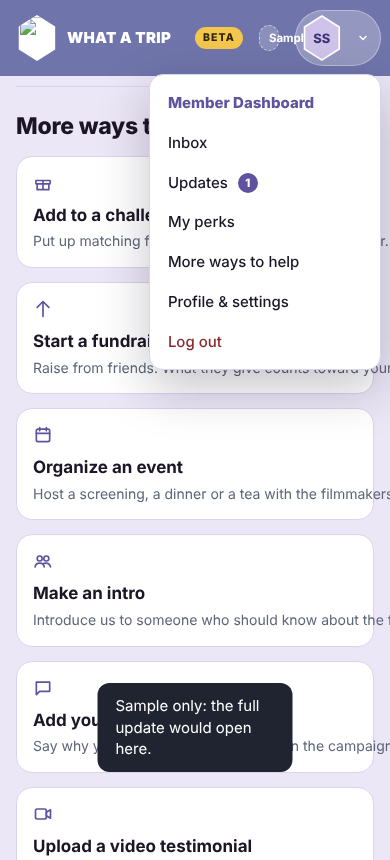
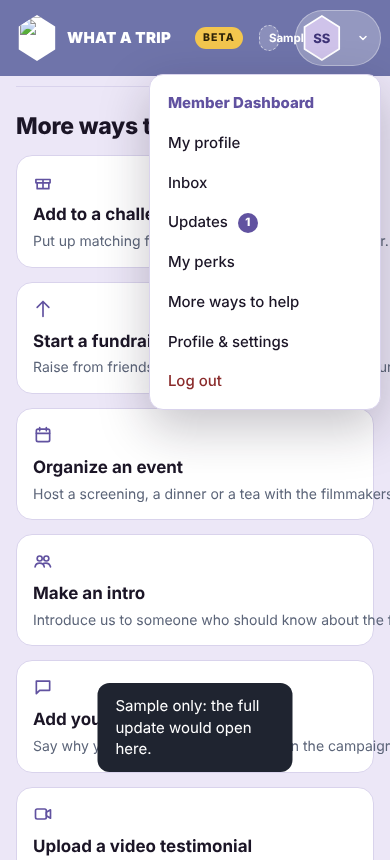
Dashboard menu: My profile under Dashboard; More info (Our budget, Forum soon); Settings and More info collapsed by default
Claude-Session: https://claude.ai/code/session_01B4g6Jr5SafogaXZoJmXf7b

diff --git a/home-page/home-block.html b/home-page/home-block.html
@@ -3062,7 +3062,7 @@ function memChip(){try{navUpd()}catch(x){}var on=memIn(),p=MEM.me.photo;R.classL
 function closeAcct(){var m=T.querySelector('.acm');if(m)m.parentNode.removeChild(m)}
 function openAcct(a){if(T.querySelector('.acm')){closeAcct();return}var r=a.getBoundingClientRect(),t=memTotal(),lv=memLv(t),m=document.createElement('div');m.className='acm';m.setAttribute('role','menu');
   m.style.top=Math.round(r.bottom+8)+'px';m.style.right=Math.max(10,Math.round(window.innerWidth-r.right))+'px';
-  m.innerHTML='<div class="acmh">'+memAv()+'<div><b>'+esc(MEM.me.wall)+'</b><span>'+esc(lv.n)+' · '+money(t)+' given</span></div></div>'+[['home','Member Dashboard'],['inbox','Inbox'],['updates','Updates'],['perks','My perks'],['help','More ways to help'],['profile','Profile & settings']].map(function(x){return '<button role="menuitem" data-acct="'+x[0]+'">'+x[1]+(x[0]==='updates'?memBdg():x[0]==='inbox'?inBdg():'')+'</button>'}).join('')+(MEM.role==='admin'?'<button role="menuitem" data-acct="admin" class="adm">Site Management</button>':'')+'<button role="menuitem" data-acct="out" class="out">Log out</button>'+(LIVE?'':'<span class="acms">Sample account: preview only</span>');
+  m.innerHTML='<div class="acmh">'+memAv()+'<div><b>'+esc(MEM.me.wall)+'</b><span>'+esc(lv.n)+' · '+money(t)+' given</span></div></div>'+[['home','Member Dashboard'],['myprof','My profile'],['inbox','Inbox'],['updates','Updates'],['perks','My perks'],['help','More ways to help'],['profile','Edit profile & settings']].map(function(x){return '<button role="menuitem" data-acct="'+x[0]+'">'+x[1]+(x[0]==='updates'?memBdg():x[0]==='inbox'?inBdg():'')+'</button>'}).join('')+(MEM.role==='admin'?'<button role="menuitem" data-acct="admin" class="adm">Site Management</button>':'')+'<button role="menuitem" data-acct="out" class="out">Log out</button>'+(LIVE?'':'<span class="acms">Sample account: preview only</span>');
   m.addEventListener('click',function(e){var b=e.target.closest&&e.target.closest('[data-acct]');if(!b)return;var v=b.getAttribute('data-acct');closeAcct();if(v==='out'){if(LIVE){liveOut();return}memSetIn(false);toast('You are logged out.');return}ADM.on=v==='admin';if(v!=='admin')MEM.tab=v;openMember(true);memSecGo()});T.appendChild(m)}
 document.addEventListener('click',function(e){if(T.querySelector('.acm')&&!(e.target.closest&&(e.target.closest('.acm')||e.target.closest('[data-wath-login]'))))closeAcct()});
 /* With a mouse, hovering the profile name opens its menu (no click needed); clicking the name still goes to the dashboard.
@@ -3158,14 +3158,15 @@ function blastTab(){if(LIVE&&!LV.rows&&!LV.rowsBusy)liveAdmLoad();var k=BL.kind,
    +'<div class="mcard"><span class="mtag">3. THE MESSAGE</span><div class="blg"><div>'+(k==='email'?'<label class="mf"><span>Subject</span><input data-bl="subj" maxlength="120" value="'+esc(BL.subj||'')+'" placeholder="For example: The rough cut is funded" autocomplete="off"></label><label class="mf"><span>Message</span><textarea data-bl="msg" rows="9" placeholder="Write your email here. Leave a blank line between paragraphs. **Bold** and [links](https://…) work.">'+esc(BL.msg||'')+'</textarea><em>Goes out from WHAT A TRIP: The Rick Doblin Story (members@whatatrip.com). Replies go to info@whatatrip.com.</em></label>':'<label class="mf"><span>Text message</span><textarea data-bl="sms" rows="5" maxlength="320" placeholder="Keep it short.">'+esc(BL.sms||'')+'</textarea><em><span data-blcnt>'+blSms().length+'</span> of 320 characters, including the opt-out line. Texting also needs a texting service and carrier registration, which takes a few weeks to set up.</em></label>')
      +'<div class="amb" style="margin-top:14px">'+(k==='email'?'<button class="btn pri" data-a="bltest"'+(BL.busy?' disabled':'')+'>'+(BL.busy?'Sending…':'Send a test to me')+'</button>':'<button class="btn" disabled title="Needs a texting service">Send a test text (not set up yet)</button>')+'<button class="btn" data-a="toast" data-t="Drafts are kept on this screen until you leave it. Saving drafts comes with real sending.">Save draft</button></div>'+(k==='email'?'<p class="msub">The test goes only to you, at '+esc(LIVE?((LV.sess&&LV.sess.user&&LV.sess.user.email)||'your login email'):'your login email')+', with [Test] in the subject, so you can see exactly how it arrives.</p>':'')+'</div><div class="blpv"><span class="mtag">PREVIEW</span><div data-blpv>'+blPreview()+'</div></div></div></div>'
    +'<div class="mcard"><span class="mtag">HOW THIS WOULD CONNECT</span><p class="msub" style="margin:0">Email could go out through Resend (already used for log-in and invitation emails) or the group could be handed to a list tool. A record of each blast, with who received it, could be copied one way into the Nirvana CRM. Nothing from Nirvana would come back into this site.</p></div>'}
-function memSide(){var k=MEM.tab,pg=memPage(k),adm=ADM.on,tl=staffTools(),it=[['home','Dashboard'],['inbox','Inbox'],['updates','Updates'],['budget','Film budget'],['help','More ways to help']],st=[['myprof','View profile'],['profile','Edit profile'],['settings','Notifications &amp; privacy'],['perks','My perks'],['password','Password']];
+function memSide(){var k=MEM.tab,pg=memPage(k),adm=ADM.on,tl=staffTools(),it=[['home','Dashboard'],['myprof','My profile'],['inbox','Inbox'],['updates','Updates'],['help','More ways to help']],st=[['profile','Edit profile'],['settings','Notifications &amp; privacy'],['perks','My perks'],['password','Password']];
   var btn=function(x){var on=!adm&&(x[0]==='help'?k==='help':x[0]==='home'?(pg==='home'&&k!=='help'):/^(myprof|profile|settings|password)$/.test(x[0])?k===x[0]:pg===x[0]);return '<button class="msn g-me'+(on?' on':'')+'" data-m="tab" data-t="'+x[0]+'">'+(x[0]==='report'?BUG_ICO:'')+x[1]+(x[0]==='updates'?memBdg():x[0]==='inbox'?inBdg():'')+'</button>'};
   /* Nov 17 4:15pm (Nirvan): Site Management first for staff; each group collapses with a chevron (remembered in this browser) */
-  var CL=MSCL(),hd=function(id,lab,cls){return '<button class="mslab mshd '+cls+'" data-mscl="'+id+'" aria-expanded="'+!CL[id]+'">'+lab+'<svg class="chev" aria-hidden="true" width="14" height="14" viewBox="0 0 16 16" fill="none" stroke="currentColor" stroke-width="2.2" stroke-linecap="round" stroke-linejoin="round"><path d="M4 6l4 4 4-4"/></svg></button>'},grp=function(id,body){return '<div class="msgb'+(CL[id]?' cl':'')+'" data-g="'+id+'">'+body+'</div>'};
-  var me=hd('acct','My account <span class="mbeta">Beta</span>','g-me')+grp('acct',it.map(btn).join(''))+hd('set','Settings','ms2 g-me')+grp('set',st.map(btn).join(''))+'<span class="mslab ms2 g-me"></span>'+btn(['report','Report a bug or idea']);
+  /* Nov 18 8:33am (Nirvan): My profile sits under Dashboard; the budget moves to a "More info" group with the forum (coming soon); Settings and More info start collapsed, and open when you are on one of their pages */
+  var CL=MSCL(),inG={set:/^(profile|settings|perks|password)$/.test(k),info:pg==='budget'},shut=function(id){return CL[id]&&!(!adm&&inG[id])},hd=function(id,lab,cls){return '<button class="mslab mshd '+cls+'" data-mscl="'+id+'" aria-expanded="'+!shut(id)+'">'+lab+'<svg class="chev" aria-hidden="true" width="14" height="14" viewBox="0 0 16 16" fill="none" stroke="currentColor" stroke-width="2.2" stroke-linecap="round" stroke-linejoin="round"><path d="M4 6l4 4 4-4"/></svg></button>'},grp=function(id,body){return '<div class="msgb'+(shut(id)?' cl':'')+'" data-g="'+id+'">'+body+'</div>'};
+  var me=hd('acct','My account <span class="mbeta">Beta</span>','g-me')+grp('acct',it.map(btn).join(''))+hd('set','Settings','ms2 g-me')+grp('set',st.map(btn).join(''))+hd('info','More info','ms2 g-me')+grp('info',btn(['budget','Our budget'])+'<button class="msn g-me msoon" data-m="toast" data-t="The forum is coming soon.">Forum <span class="mbeta">Soon</span></button>')+'<span class="mslab ms2 g-me"></span>'+btn(['report','Report a bug or idea']);
   var tm=tl.map(function(t){return '<button class="msn g-team'+(adm&&ADM.tab===t[0]?' on':'')+'" data-a="tab" data-t="'+t[0]+'">'+t[1]+(t[0]==='pchg'?pchgBdg():'')+'</button>'}).join('');
   return '<nav class="msnav" data-grp="'+(adm?'team':'me')+'" aria-label="Dashboard menu">'+(tl.length?'<button class="msn msw g-team" data-a="member">‹ My account</button><button class="msn msw g-me" data-a="admin">Site Management ›</button>':'')+(tl.length?hd('team','Site Management','tm tmtop')+grp('team',tm):'')+me+'<button class="msn out" data-m="logout">Log out</button></nav>'}
-function MSCL(){if(!MEM.cl){try{MEM.cl=JSON.parse(localStorage.getItem('wath:mscl')||'{}')||{}}catch(e){MEM.cl={}}}return MEM.cl}
+function MSCL(){if(!MEM.cl){try{MEM.cl=JSON.parse(localStorage.getItem('wath:mscl')||'{}')||{}}catch(e){MEM.cl={}}}if(!('set' in MEM.cl))MEM.cl.set=true;if(!('info' in MEM.cl))MEM.cl.info=true;return MEM.cl}
 function memTab(){var keep=MEM.tab,pg=memPage(keep),h;if(pg==='profile')h='<h2>Profile &amp; settings</h2><section class="msec" data-sec="'+keep+'">'+memTabOne()+'</section>';else{h=MPAGES[pg].map(function(k){MEM.tab=k;return '<section class="msec" data-sec="'+k+'">'+memTabOne()+'</section>'}).join('');MEM.tab=keep}return '<div class="mside">'+memSide()+'<div class="'+(pg==='profile'?'msmain':'msmain2')+'">'+h+'</div></div>'}
 function memGoal(tag,title,cur,goal,fmt,sub,btn,smp){var p=Math.max(0,Math.min(100,Math.round(cur/goal*100)));return '<div class="mcard mgoal"><span class="mtag">'+tag+(smp?' <span class="asmp">Sample numbers</span>':'')+'</span><b class="mgt">'+title+'</b><div class="bar" style="margin:10px 0 8px"><i style="width:'+p+'%"></i></div><span class="msub"><b style="color:#1b1526">'+fmt(cur)+'</b> of '+fmt(goal)+' · '+p+'%</span><span class="msub">'+sub+'</span>'+btn+'</div>'}
 function memGoals(){var r=rough(),m=matched(),pl=pool(),ig='';try{var a=document.querySelector('#header a[href*="instagram.com"]');if(a)ig=a.href}catch(e){}var num=function(n){return Math.round(n).toLocaleString('en-US')};
@@ -3248,7 +3249,7 @@ if(a==='gnew'){var gv=function(k){var e=T.querySelector('.mov [data-gn='+k+']');
 if(a==='gsave'){var rw=T.querySelector('.mov .gedr'),fv=function(k){var e=rw&&rw.querySelector('[data-gf='+k+']');return e?e.value:''};memGiftRpc(['staff_save_gift',{p_id:v,p_member:ADM.sel,p_amount:+String(fv('amount')).replace(/[^0-9.]/g,'')||0,p_date:fv('date'),p_note:fv('note'),p_anon:null}],'Gift updated. The change is recorded.');return}
 if(a==='gdel'){if(!t.getAttribute('data-sure')){t.setAttribute('data-sure','1');t.textContent='Click again to remove';return}memGiftRpc(['staff_delete_gift',{p_id:v}],'Gift removed. The change is recorded.');return}if(a==='tmopen'){ADM.on=true;ADM.tab='sup';ADM.q='';ADM.sel=v||'';ADM.del='';ADM.edit='';ADM.flag='';ADM.dots='';ADM.add=false;LV.det=null;renderMember();var tmb=T.querySelector('.mov .mbody');if(tmb)tmb.scrollTop=0;return}if(LIVE&&a==='uninvite'){liveUninvite(v);return}if(a==='tab'){var was=ADM.on&&ADM.tab===v;ADM.on=true;ADM.tab=v;renderMember();var tb=T.querySelector('.mov .mbody');if(tb&&!was)tb.scrollTop=0}else if(a==='toast')toast(v);else if(a==='aud'){ADM.aud=v;ADM.ddOpen=v==='pick'&&!(udLoad().levels||[]).length;udSave();renderMember()}else if(a==='udsave'){udSave(1);renderMember();toast('Draft saved on this computer.')}else if(a==='udedit2'){editUpdate(v)}else if(a==='udpub'){udPost()}else if(a==='uddraft'){udPost('draft')}else if(a==='uddel'){if(!t.getAttribute('data-sure')){t.setAttribute('data-sure','1');t.textContent='Click again to confirm';return}udRemove()}else if(a==='udedit'){var up=allUpdates().sort(function(x,y){return (y.pinned?1:0)-(x.pinned?1:0)||(y.publishOn||0)-(x.publishOn||0)})[+v];if(up){var bt=(up.paras||[]).map(function(x){return String(typeof x==='string'?x:(x.t||x.html||x.text||'')).replace(/<[^>]+>/g,'')}).filter(Boolean).join('\n\n')||String(up.body||up.excerpt||'').replace(/<[^>]+>/g,'');var tx=document.createElement('textarea');tx.innerHTML=bt;bt=tx.value;ADM.ud={editing:updKeyOf(up),title:up.title||'',body:bt,date:dtLocal(up.publishOn),mail:false,pin:!!up.pinned,aud:up.gate?'5':'0',levels:[]};ADM.aud=ADM.ud.aud;udSave();renderMember();var mb=T.querySelector('.mov .mbody');if(mb)mb.scrollTop=0}}else if(a==='udedsave'){var dd=udLoad(),ts=new Date(dd.date).getTime();if(dd.editing&&!isNaN(ts)){UPDDT[dd.editing]=ts;try{localStorage.setItem('wath:upd-dates',JSON.stringify(UPDDT))}catch(e){}}ADM.ud={title:'',body:'',mail:true,aud:'0',levels:[]};ADM.aud='0';udSave();renderMember();try{renderUpdates()}catch(e){}toast('Saved. The new date shows in this browser (sample until real posting is built).')}else if(a==='udclear'){ADM.ud={title:'',body:'',mail:true,aud:'0',levels:[]};ADM.aud='0';udSave();renderMember()}else if(a==='sgadd'){STRETCH.push({t:'New stretch goal',a:0,on:1});renderMember()}else if(a==='sgdel'){STRETCH.splice(+v,1);renderMember()}else if(a==='sgon'){var sg=STRETCH[+v];if(sg){sg.on=sg.on?0:1;renderMember()}}else if(a==='inv'){var iv=INV[t.getAttribute('data-k')];if(iv){if(v==='on')iv.on=iv.on?0:1;else if(v==='lim'){iv.lim=iv.lim?0:1;if(iv.lim&&!iv.total)iv.total=10}else if(v==='cp')iv.claimed=Math.min(iv.total,iv.claimed+1);else if(v==='cm')iv.claimed=Math.max(0,iv.claimed-1);renderFeat();renderLevels();renderMember()}}else if(a==='msel'){ADM.gfirst=0;ADM.gadd=false;ADM.gedit='';ADM.hopen=false;ADM.sel=v||'';ADM.del='';ADM.edit='';ADM.flag='';ADM.dots='';if(v)ADM.add=false;LV.det=null;renderMember();var mb=T.querySelector('.mov .mbody');if(mb&&v)mb.scrollTop=0}else if(a==='member'){ADM.on=false;renderMember()}else if(a==='admin'){ADM.on=true;renderMember()}}
 function memNav(){var L=[['About','/about'],['Donor Wall','/donors'],['Impact','/impact'],['Donate','/donate']];return '<nav class="mnav" aria-label="Site menu">'+L.map(function(x){return '<a href="'+x[1]+'">'+x[0]+'</a>'}).join('')+'</nav>'}
-function memHead(adm){var me='<span class="wath-chip-av"><span class="wath-chip-in">'+(MEM.me.photo?'<img alt="" src="'+MEM.me.photo+'">':memIni())+'</span></span><span>'+esc(MEM.me.wall)+'</span>';return '<div class="minner"><button class="mlogo" data-m="close" title="Back to the campaign page"><img alt="" src="'+RICK_AV+'">WHAT A TRIP</button><span class="mbeta" title="Member accounts are in beta testing">Beta</span>'+memNav()+(LIVE?'':'<button class="msamp" data-m="role" title="Sample only: switch between previewing as a member and as an admin">Sample: '+(MEM.role==='admin'?'admin':'member')+'</button>')+(adm?'<button class="mswap" data-a="member">Member view</button><span class="mme">'+me+'</span>':'<span class="mmw"><button class="mme" data-m="menu" aria-haspopup="menu" aria-expanded="false">'+me+'<span class="marr" title="Menu"><svg aria-hidden="true" width="12" height="12" viewBox="0 0 24 24" fill="none" stroke="currentColor" stroke-width="3" stroke-linecap="round" stroke-linejoin="round"><path d="M6 9l6 6 6-6"/></svg></span></button><span class="mmenu" role="menu">'+[['home','Member Dashboard'],['inbox','Inbox'],['updates','Updates'],['perks','My perks'],['help','More ways to help'],['profile','Profile & settings']].map(function(x){return '<button role="menuitem" class="mt'+(memPage(MEM.tab)===x[0]?' on':'')+'" data-m="tab" data-t="'+x[0]+'">'+x[1]+(x[0]==='updates'?memBdg():x[0]==='inbox'?inBdg():'')+'</button>'}).join('')+(MEM.role==='admin'?'<button role="menuitem" class="adm" data-a="admin">Site Management</button>':'')+'<button role="menuitem" class="out" data-m="logout">Log out</button></span></span>')+'</div>'}
+function memHead(adm){var me='<span class="wath-chip-av"><span class="wath-chip-in">'+(MEM.me.photo?'<img alt="" src="'+MEM.me.photo+'">':memIni())+'</span></span><span>'+esc(MEM.me.wall)+'</span>';return '<div class="minner"><button class="mlogo" data-m="close" title="Back to the campaign page"><img alt="" src="'+RICK_AV+'">WHAT A TRIP</button><span class="mbeta" title="Member accounts are in beta testing">Beta</span>'+memNav()+(LIVE?'':'<button class="msamp" data-m="role" title="Sample only: switch between previewing as a member and as an admin">Sample: '+(MEM.role==='admin'?'admin':'member')+'</button>')+(adm?'<button class="mswap" data-a="member">Member view</button><span class="mme">'+me+'</span>':'<span class="mmw"><button class="mme" data-m="menu" aria-haspopup="menu" aria-expanded="false">'+me+'<span class="marr" title="Menu"><svg aria-hidden="true" width="12" height="12" viewBox="0 0 24 24" fill="none" stroke="currentColor" stroke-width="3" stroke-linecap="round" stroke-linejoin="round"><path d="M6 9l6 6 6-6"/></svg></span></button><span class="mmenu" role="menu">'+[['home','Member Dashboard'],['myprof','My profile'],['inbox','Inbox'],['updates','Updates'],['perks','My perks'],['help','More ways to help'],['profile','Profile & settings']].map(function(x){return '<button role="menuitem" class="mt'+(memPage(MEM.tab)===x[0]?' on':'')+'" data-m="tab" data-t="'+x[0]+'">'+x[1]+(x[0]==='updates'?memBdg():x[0]==='inbox'?inBdg():'')+'</button>'}).join('')+(MEM.role==='admin'?'<button role="menuitem" class="adm" data-a="admin">Site Management</button>':'')+'<button role="menuitem" class="out" data-m="logout">Log out</button></span></span>')+'</div>'}
 /* Nov 17 4:32pm (Nirvan): on a computer the dashboard's top bar puts Rick's hexagon and WHAT A TRIP exactly where the site header has them */
 function mtopAlign(){try{var mi=T.querySelector('.mov .mtop .minner'),hl=document.querySelector('#header .wath-hlw'),hd=document.querySelector('#header'),ta=document.querySelector('#header .header-title-text a'),ml=T.querySelector('.mov .mlogo');if(!mi||!ml)return;
   if(!hl||!hd||window.innerWidth<768){mi.style.cssText='';ml.style.cssText='';return}var hr=hd.getBoundingClientRect(),lr=hl.getBoundingClientRect();if(!lr.width)return;
@@ -3261,7 +3262,7 @@ function renderMember(){setTimeout(mtopAlign,0);var o=T.querySelector('.mov');if
   var nv=o.querySelector('.msnav'),non=nv&&nv.querySelector('.msn.on');if(non&&nv.scrollWidth>nv.clientWidth+2)nv.scrollLeft=Math.max(0,non.offsetLeft-nv.offsetLeft-14);
   if(keep){var s2=o.querySelector('.mbody');if(s2)s2.scrollTop=y;if(vals)[].forEach.call(o.querySelectorAll(sel),function(i,n){if(n<vals.length&&!i.disabled)i.value=vals[n]})}}
 function memSecGo(){var o=T.querySelector('.mov');if(!o)return;var sc=o.querySelector('.mbody'),el=o.querySelector('.msec[data-sec="'+MEM.tab+'"]');if(!sc)return;sc.scrollTop=(el&&el.previousElementSibling)?Math.max(0,el.offsetTop-sc.offsetTop-10):0}
-function memClick(e){if(mpClick(e))return;var mc=e.target.closest&&e.target.closest('[data-mscl]');if(mc){var id=mc.getAttribute('data-mscl'),CL=MSCL();CL[id]=!CL[id];try{localStorage.setItem('wath:mscl',JSON.stringify(CL))}catch(x){}mc.setAttribute('aria-expanded',!CL[id]);var gb=mc.parentNode.querySelector('.msgb[data-g="'+id+'"]');if(gb)gb.classList.toggle('cl',!!CL[id]);return}var mw=T.querySelector('.mov .mmw');if(mw&&!(e.target.closest&&e.target.closest('[data-m=menu]'))){mw.classList.remove('open')}var ta=e.target.closest&&e.target.closest('[data-a]');if(ta){admClick(ta);return}var t=e.target.closest&&e.target.closest('[data-m]');if(!t)return;var a=t.getAttribute('data-m'),v=t.getAttribute('data-t');if(accClick(a,t))return;if(a==='inbf'){MEM.inbF=v;MEM.inbOpen='';renderMember();return}if(a==='monthgo'){giveMonthly(+v||MEM.monthly||25);return}
+function memClick(e){if(mpClick(e))return;var mc=e.target.closest&&e.target.closest('[data-mscl]');if(mc){var id=mc.getAttribute('data-mscl'),CL=MSCL(),gb0=mc.parentNode.querySelector('.msgb[data-g="'+id+'"]');CL[id]=gb0?!gb0.classList.contains('cl'):!CL[id];try{localStorage.setItem('wath:mscl',JSON.stringify(CL))}catch(x){}mc.setAttribute('aria-expanded',!CL[id]);var gb=mc.parentNode.querySelector('.msgb[data-g="'+id+'"]');if(gb)gb.classList.toggle('cl',!!CL[id]);return}var mw=T.querySelector('.mov .mmw');if(mw&&!(e.target.closest&&e.target.closest('[data-m=menu]'))){mw.classList.remove('open')}var ta=e.target.closest&&e.target.closest('[data-a]');if(ta){admClick(ta);return}var t=e.target.closest&&e.target.closest('[data-m]');if(!t)return;var a=t.getAttribute('data-m'),v=t.getAttribute('data-t');if(accClick(a,t))return;if(a==='inbf'){MEM.inbF=v;MEM.inbOpen='';renderMember();return}if(a==='monthgo'){giveMonthly(+v||MEM.monthly||25);return}
   if(a==='close')closeMember();else if(a==='role'){MEM.role=MEM.role==='admin'?'member':'admin';if(MEM.role!=='admin')ADM.on=false;renderMember();try{socKeep();renderUpdates();renderLevels()}catch(x){}toast(MEM.role==='admin'?'Sample: now previewing an admin login. Only the team sees Site Management.':'Sample: now previewing a member login. Members never see Site Management.')}else if(a==='login'){memSetIn(true);MEM.ob=memSeen()?-1:0;renderMember()}else if(a==='menu'){if(!(e.target.closest&&e.target.closest('.marr'))){ADM.on=false;MEM.tab='home';renderMember();memSecGo();return}var w=t.parentNode,op=HOVERS?true:!w.classList.contains('open');w.classList.toggle('open',op);t.setAttribute('aria-expanded',op?'true':'false')}else if(a==='tab'){ADM.on=false;MEM.tab=v;renderMember();memSecGo()}else if(a==='toast')toast(v);
   else if(a==='inbopen'){MEM.inbOpen=MEM.inbOpen===v?null:v;INB.forEach(function(m){if(m.id===v)m.r=1});inbSave();renderMember();try{memChip()}catch(x){}}else if(a==='inbnew'){MEM.inbNew=1;renderMember()}else if(a==='inbcancel'){MEM.inbNew=0;renderMember()}else if(a==='inbsend'){var ov=T.querySelector('.mov'),su=(ov.querySelector('[data-inbsub]').value||'').trim(),bo=(ov.querySelector('[data-inbbody]').value||'').trim(),to=ov.querySelector('[data-inbto]').value;if(!bo){toast('Please write a message.');return}INB.unshift({id:'o'+Date.now(),out:1,to:to==='dir'?'Nirvan Mullick, Director':'The What a Trip team',s:su||'(No subject)',b:'<p>'+esc(bo).replace(/\n/g,'<br>')+'</p>',d:inbNow(),r:1});inbSave();MEM.inbNew=0;MEM.inbF='out';renderMember();toast('Sent. We’ll reply here and by email.'+(LIVE?'':' (Sample: saved on this computer only.)'))}
   else if(a==='smsend'){var o2=T.querySelector('.mov'),to2=o2.querySelector('[data-smto]').value,sb=(o2.querySelector('[data-smsub]').value||'').trim(),bd=(o2.querySelector('[data-smbody]').value||'').trim();if(!bd){toast('Please write a message.');return}if(/\(you\)$/.test(to2)){inbAdd(null,sb||'A message from the team','<p>'+esc(bd).replace(/\n/g,'<br>')+'</p>');toast('Sent to your Inbox. (Sample.)')}else toast('Sample only: this would go to '+to2+'’s Inbox and email.');o2.querySelector('[data-smbody]').value='';o2.querySelector('[data-smsub]').value=''}

diff --git a/home-page/src/app.js b/home-page/src/app.js
@@ -1038,7 +1038,7 @@ function memChip(){try{navUpd()}catch(x){}var on=memIn(),p=MEM.me.photo;R.classL
 function closeAcct(){var m=T.querySelector('.acm');if(m)m.parentNode.removeChild(m)}
 function openAcct(a){if(T.querySelector('.acm')){closeAcct();return}var r=a.getBoundingClientRect(),t=memTotal(),lv=memLv(t),m=document.createElement('div');m.className='acm';m.setAttribute('role','menu');
   m.style.top=Math.round(r.bottom+8)+'px';m.style.right=Math.max(10,Math.round(window.innerWidth-r.right))+'px';
-  m.innerHTML='<div class="acmh">'+memAv()+'<div><b>'+esc(MEM.me.wall)+'</b><span>'+esc(lv.n)+' · '+money(t)+' given</span></div></div>'+[['home','Member Dashboard'],['inbox','Inbox'],['updates','Updates'],['perks','My perks'],['help','More ways to help'],['profile','Profile & settings']].map(function(x){return '<button role="menuitem" data-acct="'+x[0]+'">'+x[1]+(x[0]==='updates'?memBdg():x[0]==='inbox'?inBdg():'')+'</button>'}).join('')+(MEM.role==='admin'?'<button role="menuitem" data-acct="admin" class="adm">Site Management</button>':'')+'<button role="menuitem" data-acct="out" class="out">Log out</button>'+(LIVE?'':'<span class="acms">Sample account: preview only</span>');
+  m.innerHTML='<div class="acmh">'+memAv()+'<div><b>'+esc(MEM.me.wall)+'</b><span>'+esc(lv.n)+' · '+money(t)+' given</span></div></div>'+[['home','Member Dashboard'],['myprof','My profile'],['inbox','Inbox'],['updates','Updates'],['perks','My perks'],['help','More ways to help'],['profile','Edit profile & settings']].map(function(x){return '<button role="menuitem" data-acct="'+x[0]+'">'+x[1]+(x[0]==='updates'?memBdg():x[0]==='inbox'?inBdg():'')+'</button>'}).join('')+(MEM.role==='admin'?'<button role="menuitem" data-acct="admin" class="adm">Site Management</button>':'')+'<button role="menuitem" data-acct="out" class="out">Log out</button>'+(LIVE?'':'<span class="acms">Sample account: preview only</span>');
   m.addEventListener('click',function(e){var b=e.target.closest&&e.target.closest('[data-acct]');if(!b)return;var v=b.getAttribute('data-acct');closeAcct();if(v==='out'){if(LIVE){liveOut();return}memSetIn(false);toast('You are logged out.');return}ADM.on=v==='admin';if(v!=='admin')MEM.tab=v;openMember(true);memSecGo()});T.appendChild(m)}
 document.addEventListener('click',function(e){if(T.querySelector('.acm')&&!(e.target.closest&&(e.target.closest('.acm')||e.target.closest('[data-wath-login]'))))closeAcct()});
 /* With a mouse, hovering the profile name opens its menu (no click needed); clicking the name still goes to the dashboard.
@@ -1134,14 +1134,15 @@ function blastTab(){if(LIVE&&!LV.rows&&!LV.rowsBusy)liveAdmLoad();var k=BL.kind,
    +'<div class="mcard"><span class="mtag">3. THE MESSAGE</span><div class="blg"><div>'+(k==='email'?'<label class="mf"><span>Subject</span><input data-bl="subj" maxlength="120" value="'+esc(BL.subj||'')+'" placeholder="For example: The rough cut is funded" autocomplete="off"></label><label class="mf"><span>Message</span><textarea data-bl="msg" rows="9" placeholder="Write your email here. Leave a blank line between paragraphs. **Bold** and [links](https://…) work.">'+esc(BL.msg||'')+'</textarea><em>Goes out from WHAT A TRIP: The Rick Doblin Story (members@whatatrip.com). Replies go to info@whatatrip.com.</em></label>':'<label class="mf"><span>Text message</span><textarea data-bl="sms" rows="5" maxlength="320" placeholder="Keep it short.">'+esc(BL.sms||'')+'</textarea><em><span data-blcnt>'+blSms().length+'</span> of 320 characters, including the opt-out line. Texting also needs a texting service and carrier registration, which takes a few weeks to set up.</em></label>')
      +'<div class="amb" style="margin-top:14px">'+(k==='email'?'<button class="btn pri" data-a="bltest"'+(BL.busy?' disabled':'')+'>'+(BL.busy?'Sending…':'Send a test to me')+'</button>':'<button class="btn" disabled title="Needs a texting service">Send a test text (not set up yet)</button>')+'<button class="btn" data-a="toast" data-t="Drafts are kept on this screen until you leave it. Saving drafts comes with real sending.">Save draft</button></div>'+(k==='email'?'<p class="msub">The test goes only to you, at '+esc(LIVE?((LV.sess&&LV.sess.user&&LV.sess.user.email)||'your login email'):'your login email')+', with [Test] in the subject, so you can see exactly how it arrives.</p>':'')+'</div><div class="blpv"><span class="mtag">PREVIEW</span><div data-blpv>'+blPreview()+'</div></div></div></div>'
    +'<div class="mcard"><span class="mtag">HOW THIS WOULD CONNECT</span><p class="msub" style="margin:0">Email could go out through Resend (already used for log-in and invitation emails) or the group could be handed to a list tool. A record of each blast, with who received it, could be copied one way into the Nirvana CRM. Nothing from Nirvana would come back into this site.</p></div>'}
-function memSide(){var k=MEM.tab,pg=memPage(k),adm=ADM.on,tl=staffTools(),it=[['home','Dashboard'],['inbox','Inbox'],['updates','Updates'],['budget','Film budget'],['help','More ways to help']],st=[['myprof','View profile'],['profile','Edit profile'],['settings','Notifications &amp; privacy'],['perks','My perks'],['password','Password']];
+function memSide(){var k=MEM.tab,pg=memPage(k),adm=ADM.on,tl=staffTools(),it=[['home','Dashboard'],['myprof','My profile'],['inbox','Inbox'],['updates','Updates'],['help','More ways to help']],st=[['profile','Edit profile'],['settings','Notifications &amp; privacy'],['perks','My perks'],['password','Password']];
   var btn=function(x){var on=!adm&&(x[0]==='help'?k==='help':x[0]==='home'?(pg==='home'&&k!=='help'):/^(myprof|profile|settings|password)$/.test(x[0])?k===x[0]:pg===x[0]);return '<button class="msn g-me'+(on?' on':'')+'" data-m="tab" data-t="'+x[0]+'">'+(x[0]==='report'?BUG_ICO:'')+x[1]+(x[0]==='updates'?memBdg():x[0]==='inbox'?inBdg():'')+'</button>'};
   /* Nov 17 4:15pm (Nirvan): Site Management first for staff; each group collapses with a chevron (remembered in this browser) */
-  var CL=MSCL(),hd=function(id,lab,cls){return '<button class="mslab mshd '+cls+'" data-mscl="'+id+'" aria-expanded="'+!CL[id]+'">'+lab+'<svg class="chev" aria-hidden="true" width="14" height="14" viewBox="0 0 16 16" fill="none" stroke="currentColor" stroke-width="2.2" stroke-linecap="round" stroke-linejoin="round"><path d="M4 6l4 4 4-4"/></svg></button>'},grp=function(id,body){return '<div class="msgb'+(CL[id]?' cl':'')+'" data-g="'+id+'">'+body+'</div>'};
-  var me=hd('acct','My account <span class="mbeta">Beta</span>','g-me')+grp('acct',it.map(btn).join(''))+hd('set','Settings','ms2 g-me')+grp('set',st.map(btn).join(''))+'<span class="mslab ms2 g-me"></span>'+btn(['report','Report a bug or idea']);
+  /* Nov 18 8:33am (Nirvan): My profile sits under Dashboard; the budget moves to a "More info" group with the forum (coming soon); Settings and More info start collapsed, and open when you are on one of their pages */
+  var CL=MSCL(),inG={set:/^(profile|settings|perks|password)$/.test(k),info:pg==='budget'},shut=function(id){return CL[id]&&!(!adm&&inG[id])},hd=function(id,lab,cls){return '<button class="mslab mshd '+cls+'" data-mscl="'+id+'" aria-expanded="'+!shut(id)+'">'+lab+'<svg class="chev" aria-hidden="true" width="14" height="14" viewBox="0 0 16 16" fill="none" stroke="currentColor" stroke-width="2.2" stroke-linecap="round" stroke-linejoin="round"><path d="M4 6l4 4 4-4"/></svg></button>'},grp=function(id,body){return '<div class="msgb'+(shut(id)?' cl':'')+'" data-g="'+id+'">'+body+'</div>'};
+  var me=hd('acct','My account <span class="mbeta">Beta</span>','g-me')+grp('acct',it.map(btn).join(''))+hd('set','Settings','ms2 g-me')+grp('set',st.map(btn).join(''))+hd('info','More info','ms2 g-me')+grp('info',btn(['budget','Our budget'])+'<button class="msn g-me msoon" data-m="toast" data-t="The forum is coming soon.">Forum <span class="mbeta">Soon</span></button>')+'<span class="mslab ms2 g-me"></span>'+btn(['report','Report a bug or idea']);
   var tm=tl.map(function(t){return '<button class="msn g-team'+(adm&&ADM.tab===t[0]?' on':'')+'" data-a="tab" data-t="'+t[0]+'">'+t[1]+(t[0]==='pchg'?pchgBdg():'')+'</button>'}).join('');
   return '<nav class="msnav" data-grp="'+(adm?'team':'me')+'" aria-label="Dashboard menu">'+(tl.length?'<button class="msn msw g-team" data-a="member">‹ My account</button><button class="msn msw g-me" data-a="admin">Site Management ›</button>':'')+(tl.length?hd('team','Site Management','tm tmtop')+grp('team',tm):'')+me+'<button class="msn out" data-m="logout">Log out</button></nav>'}
-function MSCL(){if(!MEM.cl){try{MEM.cl=JSON.parse(localStorage.getItem('wath:mscl')||'{}')||{}}catch(e){MEM.cl={}}}return MEM.cl}
+function MSCL(){if(!MEM.cl){try{MEM.cl=JSON.parse(localStorage.getItem('wath:mscl')||'{}')||{}}catch(e){MEM.cl={}}}if(!('set' in MEM.cl))MEM.cl.set=true;if(!('info' in MEM.cl))MEM.cl.info=true;return MEM.cl}
 function memTab(){var keep=MEM.tab,pg=memPage(keep),h;if(pg==='profile')h='<h2>Profile &amp; settings</h2><section class="msec" data-sec="'+keep+'">'+memTabOne()+'</section>';else{h=MPAGES[pg].map(function(k){MEM.tab=k;return '<section class="msec" data-sec="'+k+'">'+memTabOne()+'</section>'}).join('');MEM.tab=keep}return '<div class="mside">'+memSide()+'<div class="'+(pg==='profile'?'msmain':'msmain2')+'">'+h+'</div></div>'}
 function memGoal(tag,title,cur,goal,fmt,sub,btn,smp){var p=Math.max(0,Math.min(100,Math.round(cur/goal*100)));return '<div class="mcard mgoal"><span class="mtag">'+tag+(smp?' <span class="asmp">Sample numbers</span>':'')+'</span><b class="mgt">'+title+'</b><div class="bar" style="margin:10px 0 8px"><i style="width:'+p+'%"></i></div><span class="msub"><b style="color:#1b1526">'+fmt(cur)+'</b> of '+fmt(goal)+' · '+p+'%</span><span class="msub">'+sub+'</span>'+btn+'</div>'}
 function memGoals(){var r=rough(),m=matched(),pl=pool(),ig='';try{var a=document.querySelector('#header a[href*="instagram.com"]');if(a)ig=a.href}catch(e){}var num=function(n){return Math.round(n).toLocaleString('en-US')};
@@ -1224,7 +1225,7 @@ if(a==='gnew'){var gv=function(k){var e=T.querySelector('.mov [data-gn='+k+']');
 if(a==='gsave'){var rw=T.querySelector('.mov .gedr'),fv=function(k){var e=rw&&rw.querySelector('[data-gf='+k+']');return e?e.value:''};memGiftRpc(['staff_save_gift',{p_id:v,p_member:ADM.sel,p_amount:+String(fv('amount')).replace(/[^0-9.]/g,'')||0,p_date:fv('date'),p_note:fv('note'),p_anon:null}],'Gift updated. The change is recorded.');return}
 if(a==='gdel'){if(!t.getAttribute('data-sure')){t.setAttribute('data-sure','1');t.textContent='Click again to remove';return}memGiftRpc(['staff_delete_gift',{p_id:v}],'Gift removed. The change is recorded.');return}if(a==='tmopen'){ADM.on=true;ADM.tab='sup';ADM.q='';ADM.sel=v||'';ADM.del='';ADM.edit='';ADM.flag='';ADM.dots='';ADM.add=false;LV.det=null;renderMember();var tmb=T.querySelector('.mov .mbody');if(tmb)tmb.scrollTop=0;return}if(LIVE&&a==='uninvite'){liveUninvite(v);return}if(a==='tab'){var was=ADM.on&&ADM.tab===v;ADM.on=true;ADM.tab=v;renderMember();var tb=T.querySelector('.mov .mbody');if(tb&&!was)tb.scrollTop=0}else if(a==='toast')toast(v);else if(a==='aud'){ADM.aud=v;ADM.ddOpen=v==='pick'&&!(udLoad().levels||[]).length;udSave();renderMember()}else if(a==='udsave'){udSave(1);renderMember();toast('Draft saved on this computer.')}else if(a==='udedit2'){editUpdate(v)}else if(a==='udpub'){udPost()}else if(a==='uddraft'){udPost('draft')}else if(a==='uddel'){if(!t.getAttribute('data-sure')){t.setAttribute('data-sure','1');t.textContent='Click again to confirm';return}udRemove()}else if(a==='udedit'){var up=allUpdates().sort(function(x,y){return (y.pinned?1:0)-(x.pinned?1:0)||(y.publishOn||0)-(x.publishOn||0)})[+v];if(up){var bt=(up.paras||[]).map(function(x){return String(typeof x==='string'?x:(x.t||x.html||x.text||'')).replace(/<[^>]+>/g,'')}).filter(Boolean).join('\n\n')||String(up.body||up.excerpt||'').replace(/<[^>]+>/g,'');var tx=document.createElement('textarea');tx.innerHTML=bt;bt=tx.value;ADM.ud={editing:updKeyOf(up),title:up.title||'',body:bt,date:dtLocal(up.publishOn),mail:false,pin:!!up.pinned,aud:up.gate?'5':'0',levels:[]};ADM.aud=ADM.ud.aud;udSave();renderMember();var mb=T.querySelector('.mov .mbody');if(mb)mb.scrollTop=0}}else if(a==='udedsave'){var dd=udLoad(),ts=new Date(dd.date).getTime();if(dd.editing&&!isNaN(ts)){UPDDT[dd.editing]=ts;try{localStorage.setItem('wath:upd-dates',JSON.stringify(UPDDT))}catch(e){}}ADM.ud={title:'',body:'',mail:true,aud:'0',levels:[]};ADM.aud='0';udSave();renderMember();try{renderUpdates()}catch(e){}toast('Saved. The new date shows in this browser (sample until real posting is built).')}else if(a==='udclear'){ADM.ud={title:'',body:'',mail:true,aud:'0',levels:[]};ADM.aud='0';udSave();renderMember()}else if(a==='sgadd'){STRETCH.push({t:'New stretch goal',a:0,on:1});renderMember()}else if(a==='sgdel'){STRETCH.splice(+v,1);renderMember()}else if(a==='sgon'){var sg=STRETCH[+v];if(sg){sg.on=sg.on?0:1;renderMember()}}else if(a==='inv'){var iv=INV[t.getAttribute('data-k')];if(iv){if(v==='on')iv.on=iv.on?0:1;else if(v==='lim'){iv.lim=iv.lim?0:1;if(iv.lim&&!iv.total)iv.total=10}else if(v==='cp')iv.claimed=Math.min(iv.total,iv.claimed+1);else if(v==='cm')iv.claimed=Math.max(0,iv.claimed-1);renderFeat();renderLevels();renderMember()}}else if(a==='msel'){ADM.gfirst=0;ADM.gadd=false;ADM.gedit='';ADM.hopen=false;ADM.sel=v||'';ADM.del='';ADM.edit='';ADM.flag='';ADM.dots='';if(v)ADM.add=false;LV.det=null;renderMember();var mb=T.querySelector('.mov .mbody');if(mb&&v)mb.scrollTop=0}else if(a==='member'){ADM.on=false;renderMember()}else if(a==='admin'){ADM.on=true;renderMember()}}
 function memNav(){var L=[['About','/about'],['Donor Wall','/donors'],['Impact','/impact'],['Donate','/donate']];return '<nav class="mnav" aria-label="Site menu">'+L.map(function(x){return '<a href="'+x[1]+'">'+x[0]+'</a>'}).join('')+'</nav>'}
-function memHead(adm){var me='<span class="wath-chip-av"><span class="wath-chip-in">'+(MEM.me.photo?'<img alt="" src="'+MEM.me.photo+'">':memIni())+'</span></span><span>'+esc(MEM.me.wall)+'</span>';return '<div class="minner"><button class="mlogo" data-m="close" title="Back to the campaign page"><img alt="" src="'+RICK_AV+'">WHAT A TRIP</button><span class="mbeta" title="Member accounts are in beta testing">Beta</span>'+memNav()+(LIVE?'':'<button class="msamp" data-m="role" title="Sample only: switch between previewing as a member and as an admin">Sample: '+(MEM.role==='admin'?'admin':'member')+'</button>')+(adm?'<button class="mswap" data-a="member">Member view</button><span class="mme">'+me+'</span>':'<span class="mmw"><button class="mme" data-m="menu" aria-haspopup="menu" aria-expanded="false">'+me+'<span class="marr" title="Menu"><svg aria-hidden="true" width="12" height="12" viewBox="0 0 24 24" fill="none" stroke="currentColor" stroke-width="3" stroke-linecap="round" stroke-linejoin="round"><path d="M6 9l6 6 6-6"/></svg></span></button><span class="mmenu" role="menu">'+[['home','Member Dashboard'],['inbox','Inbox'],['updates','Updates'],['perks','My perks'],['help','More ways to help'],['profile','Profile & settings']].map(function(x){return '<button role="menuitem" class="mt'+(memPage(MEM.tab)===x[0]?' on':'')+'" data-m="tab" data-t="'+x[0]+'">'+x[1]+(x[0]==='updates'?memBdg():x[0]==='inbox'?inBdg():'')+'</button>'}).join('')+(MEM.role==='admin'?'<button role="menuitem" class="adm" data-a="admin">Site Management</button>':'')+'<button role="menuitem" class="out" data-m="logout">Log out</button></span></span>')+'</div>'}
+function memHead(adm){var me='<span class="wath-chip-av"><span class="wath-chip-in">'+(MEM.me.photo?'<img alt="" src="'+MEM.me.photo+'">':memIni())+'</span></span><span>'+esc(MEM.me.wall)+'</span>';return '<div class="minner"><button class="mlogo" data-m="close" title="Back to the campaign page"><img alt="" src="'+RICK_AV+'">WHAT A TRIP</button><span class="mbeta" title="Member accounts are in beta testing">Beta</span>'+memNav()+(LIVE?'':'<button class="msamp" data-m="role" title="Sample only: switch between previewing as a member and as an admin">Sample: '+(MEM.role==='admin'?'admin':'member')+'</button>')+(adm?'<button class="mswap" data-a="member">Member view</button><span class="mme">'+me+'</span>':'<span class="mmw"><button class="mme" data-m="menu" aria-haspopup="menu" aria-expanded="false">'+me+'<span class="marr" title="Menu"><svg aria-hidden="true" width="12" height="12" viewBox="0 0 24 24" fill="none" stroke="currentColor" stroke-width="3" stroke-linecap="round" stroke-linejoin="round"><path d="M6 9l6 6 6-6"/></svg></span></button><span class="mmenu" role="menu">'+[['home','Member Dashboard'],['myprof','My profile'],['inbox','Inbox'],['updates','Updates'],['perks','My perks'],['help','More ways to help'],['profile','Profile & settings']].map(function(x){return '<button role="menuitem" class="mt'+(memPage(MEM.tab)===x[0]?' on':'')+'" data-m="tab" data-t="'+x[0]+'">'+x[1]+(x[0]==='updates'?memBdg():x[0]==='inbox'?inBdg():'')+'</button>'}).join('')+(MEM.role==='admin'?'<button role="menuitem" class="adm" data-a="admin">Site Management</button>':'')+'<button role="menuitem" class="out" data-m="logout">Log out</button></span></span>')+'</div>'}
 /* Nov 17 4:32pm (Nirvan): on a computer the dashboard's top bar puts Rick's hexagon and WHAT A TRIP exactly where the site header has them */
 function mtopAlign(){try{var mi=T.querySelector('.mov .mtop .minner'),hl=document.querySelector('#header .wath-hlw'),hd=document.querySelector('#header'),ta=document.querySelector('#header .header-title-text a'),ml=T.querySelector('.mov .mlogo');if(!mi||!ml)return;
   if(!hl||!hd||window.innerWidth<768){mi.style.cssText='';ml.style.cssText='';return}var hr=hd.getBoundingClientRect(),lr=hl.getBoundingClientRect();if(!lr.width)return;
@@ -1237,7 +1238,7 @@ function renderMember(){setTimeout(mtopAlign,0);var o=T.querySelector('.mov');if
   var nv=o.querySelector('.msnav'),non=nv&&nv.querySelector('.msn.on');if(non&&nv.scrollWidth>nv.clientWidth+2)nv.scrollLeft=Math.max(0,non.offsetLeft-nv.offsetLeft-14);
   if(keep){var s2=o.querySelector('.mbody');if(s2)s2.scrollTop=y;if(vals)[].forEach.call(o.querySelectorAll(sel),function(i,n){if(n<vals.length&&!i.disabled)i.value=vals[n]})}}
 function memSecGo(){var o=T.querySelector('.mov');if(!o)return;var sc=o.querySelector('.mbody'),el=o.querySelector('.msec[data-sec="'+MEM.tab+'"]');if(!sc)return;sc.scrollTop=(el&&el.previousElementSibling)?Math.max(0,el.offsetTop-sc.offsetTop-10):0}
-function memClick(e){if(mpClick(e))return;var mc=e.target.closest&&e.target.closest('[data-mscl]');if(mc){var id=mc.getAttribute('data-mscl'),CL=MSCL();CL[id]=!CL[id];try{localStorage.setItem('wath:mscl',JSON.stringify(CL))}catch(x){}mc.setAttribute('aria-expanded',!CL[id]);var gb=mc.parentNode.querySelector('.msgb[data-g="'+id+'"]');if(gb)gb.classList.toggle('cl',!!CL[id]);return}var mw=T.querySelector('.mov .mmw');if(mw&&!(e.target.closest&&e.target.closest('[data-m=menu]'))){mw.classList.remove('open')}var ta=e.target.closest&&e.target.closest('[data-a]');if(ta){admClick(ta);return}var t=e.target.closest&&e.target.closest('[data-m]');if(!t)return;var a=t.getAttribute('data-m'),v=t.getAttribute('data-t');if(accClick(a,t))return;if(a==='inbf'){MEM.inbF=v;MEM.inbOpen='';renderMember();return}if(a==='monthgo'){giveMonthly(+v||MEM.monthly||25);return}
+function memClick(e){if(mpClick(e))return;var mc=e.target.closest&&e.target.closest('[data-mscl]');if(mc){var id=mc.getAttribute('data-mscl'),CL=MSCL(),gb0=mc.parentNode.querySelector('.msgb[data-g="'+id+'"]');CL[id]=gb0?!gb0.classList.contains('cl'):!CL[id];try{localStorage.setItem('wath:mscl',JSON.stringify(CL))}catch(x){}mc.setAttribute('aria-expanded',!CL[id]);var gb=mc.parentNode.querySelector('.msgb[data-g="'+id+'"]');if(gb)gb.classList.toggle('cl',!!CL[id]);return}var mw=T.querySelector('.mov .mmw');if(mw&&!(e.target.closest&&e.target.closest('[data-m=menu]'))){mw.classList.remove('open')}var ta=e.target.closest&&e.target.closest('[data-a]');if(ta){admClick(ta);return}var t=e.target.closest&&e.target.closest('[data-m]');if(!t)return;var a=t.getAttribute('data-m'),v=t.getAttribute('data-t');if(accClick(a,t))return;if(a==='inbf'){MEM.inbF=v;MEM.inbOpen='';renderMember();return}if(a==='monthgo'){giveMonthly(+v||MEM.monthly||25);return}
   if(a==='close')closeMember();else if(a==='role'){MEM.role=MEM.role==='admin'?'member':'admin';if(MEM.role!=='admin')ADM.on=false;renderMember();try{socKeep();renderUpdates();renderLevels()}catch(x){}toast(MEM.role==='admin'?'Sample: now previewing an admin login. Only the team sees Site Management.':'Sample: now previewing a member login. Members never see Site Management.')}else if(a==='login'){memSetIn(true);MEM.ob=memSeen()?-1:0;renderMember()}else if(a==='menu'){if(!(e.target.closest&&e.target.closest('.marr'))){ADM.on=false;MEM.tab='home';renderMember();memSecGo();return}var w=t.parentNode,op=HOVERS?true:!w.classList.contains('open');w.classList.toggle('open',op);t.setAttribute('aria-expanded',op?'true':'false')}else if(a==='tab'){ADM.on=false;MEM.tab=v;renderMember();memSecGo()}else if(a==='toast')toast(v);
   else if(a==='inbopen'){MEM.inbOpen=MEM.inbOpen===v?null:v;INB.forEach(function(m){if(m.id===v)m.r=1});inbSave();renderMember();try{memChip()}catch(x){}}else if(a==='inbnew'){MEM.inbNew=1;renderMember()}else if(a==='inbcancel'){MEM.inbNew=0;renderMember()}else if(a==='inbsend'){var ov=T.querySelector('.mov'),su=(ov.querySelector('[data-inbsub]').value||'').trim(),bo=(ov.querySelector('[data-inbbody]').value||'').trim(),to=ov.querySelector('[data-inbto]').value;if(!bo){toast('Please write a message.');return}INB.unshift({id:'o'+Date.now(),out:1,to:to==='dir'?'Nirvan Mullick, Director':'The What a Trip team',s:su||'(No subject)',b:'<p>'+esc(bo).replace(/\n/g,'<br>')+'</p>',d:inbNow(),r:1});inbSave();MEM.inbNew=0;MEM.inbF='out';renderMember();toast('Sent. We’ll reply here and by email.'+(LIVE?'':' (Sample: saved on this computer only.)'))}
   else if(a==='smsend'){var o2=T.querySelector('.mov'),to2=o2.querySelector('[data-smto]').value,sb=(o2.querySelector('[data-smsub]').value||'').trim(),bd=(o2.querySelector('[data-smbody]').value||'').trim();if(!bd){toast('Please write a message.');return}if(/\(you\)$/.test(to2)){inbAdd(null,sb||'A message from the team','<p>'+esc(bd).replace(/\n/g,'<br>')+'</p>');toast('Sent to your Inbox. (Sample.)')}else toast('Sample only: this would go to '+to2+'’s Inbox and email.');o2.querySelector('[data-smbody]').value='';o2.querySelector('[data-smsub]').value=''}
